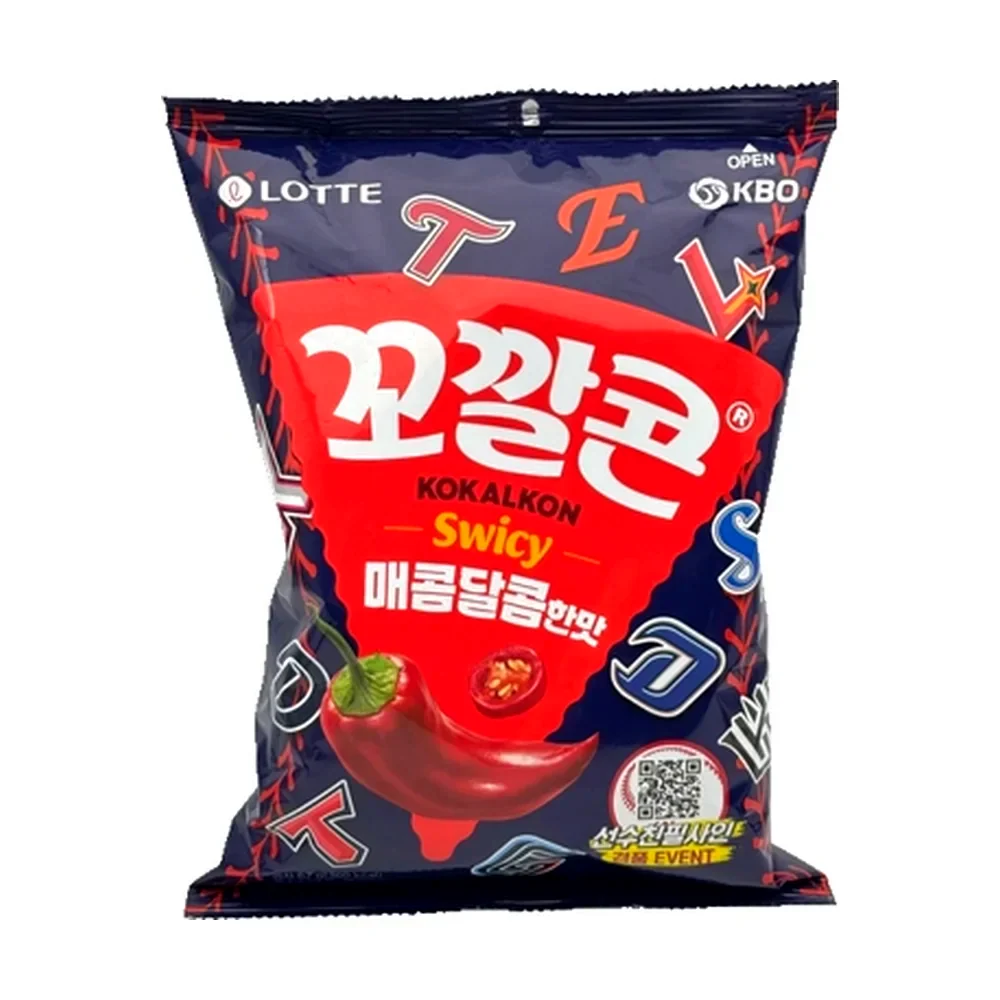
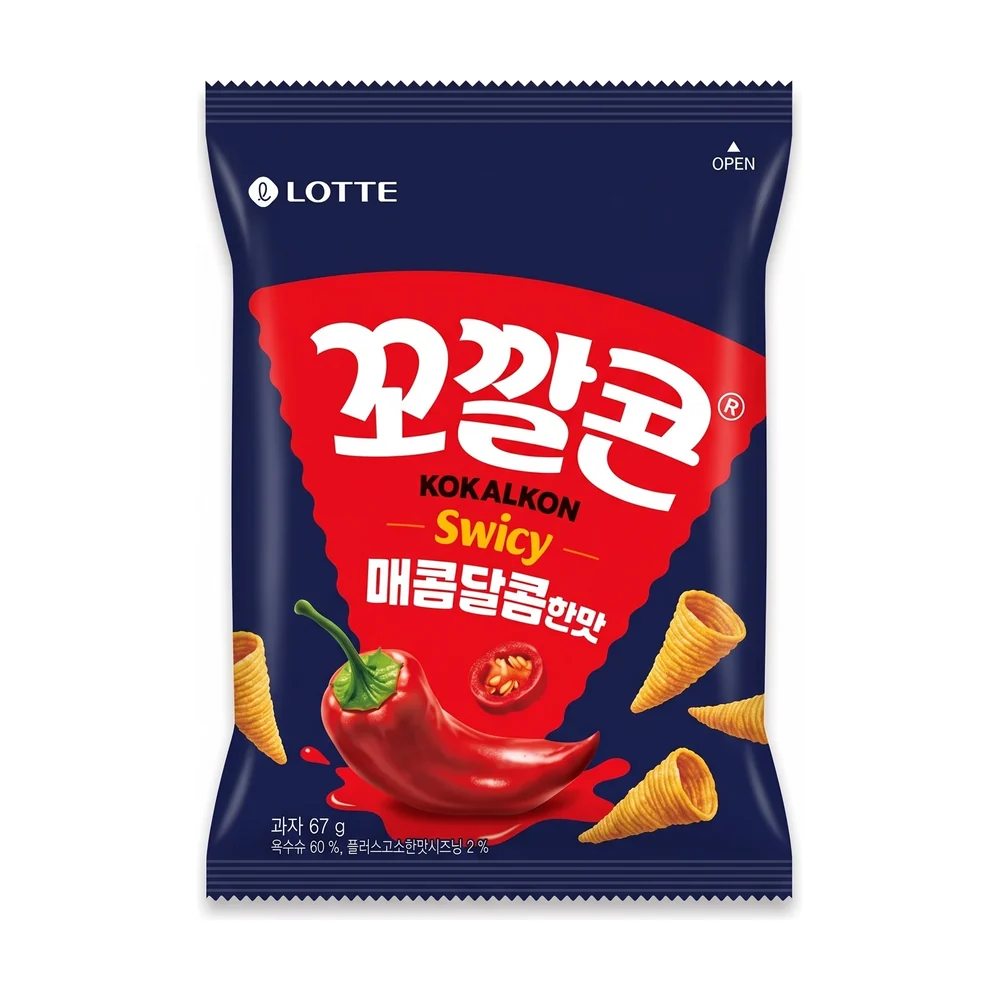
review(kokalkon): 1 products — 0 keep, 1 fixed, 0 need photo, 0 asked
KBO event pack redrawn as the regular Swicy pack in the sister flavour's flat style.

Claude-Session: https://claude.ai/code/session_01DMTF5GjS3P9om8RxKa1WuX

diff --git a/STATUS.md b/STATUS.md
@@ -2,14 +2,14 @@
 
 > Sinh tự động bởi `node tools/status.mjs`. **Không sửa tay.** Nguồn sự thật là `meta.json` của từng SP.
 
-Tổng 2502 SP · đã xem 2502 (100%) · xong 2307 · chờ chủ duyệt 17 · cần chụp 177 · hỏi chủ 1
+Tổng 2502 SP · đã xem 2502 (100%) · xong 2306 · chờ chủ duyệt 18 · cần chụp 177 · hỏi chủ 1
 
 Thứ tự làm: từ trên xuống (doanh số 90 ngày giảm dần). `xong` = giữ nguyên + đã lên web.
 
 | # | Category | DT 90 ngày | Tổng | Chưa xem | Giữ nguyên | Đang làm | Cần chụp | Hỏi chủ | Chờ duyệt | Đã duyệt | Đã lên web |
 |---|---|---:|---:|---:|---:|---:|---:|---:|---:|---:|---:|
 | 1 | Snack khoai tây | 0.0tr | 75 | 0 | 0 | 0 | 1 | 0 | 0 | 0 | 74 |
-| 2 | Snack bắp & phồng | 0.0tr | 66 | 0 | 0 | 0 | 3 | 1 | 1 | 0 | 61 |
+| 2 | Snack bắp & phồng | 0.0tr | 66 | 0 | 0 | 0 | 3 | 1 | 2 | 0 | 60 |
 | 3 | Kem que | 0.0tr | 61 | 0 | 0 | 0 | 1 | 0 | 0 | 0 | 60 |
 | 4 | Socola thanh | 0.0tr | 53 | 0 | 7 | 0 | 0 | 0 | 0 | 0 | 46 |
 | 5 | Snack đậu phộng / hạt‑đậu | 0.0tr | 47 | 0 | 0 | 0 | 1 | 0 | 0 | 0 | 46 |
